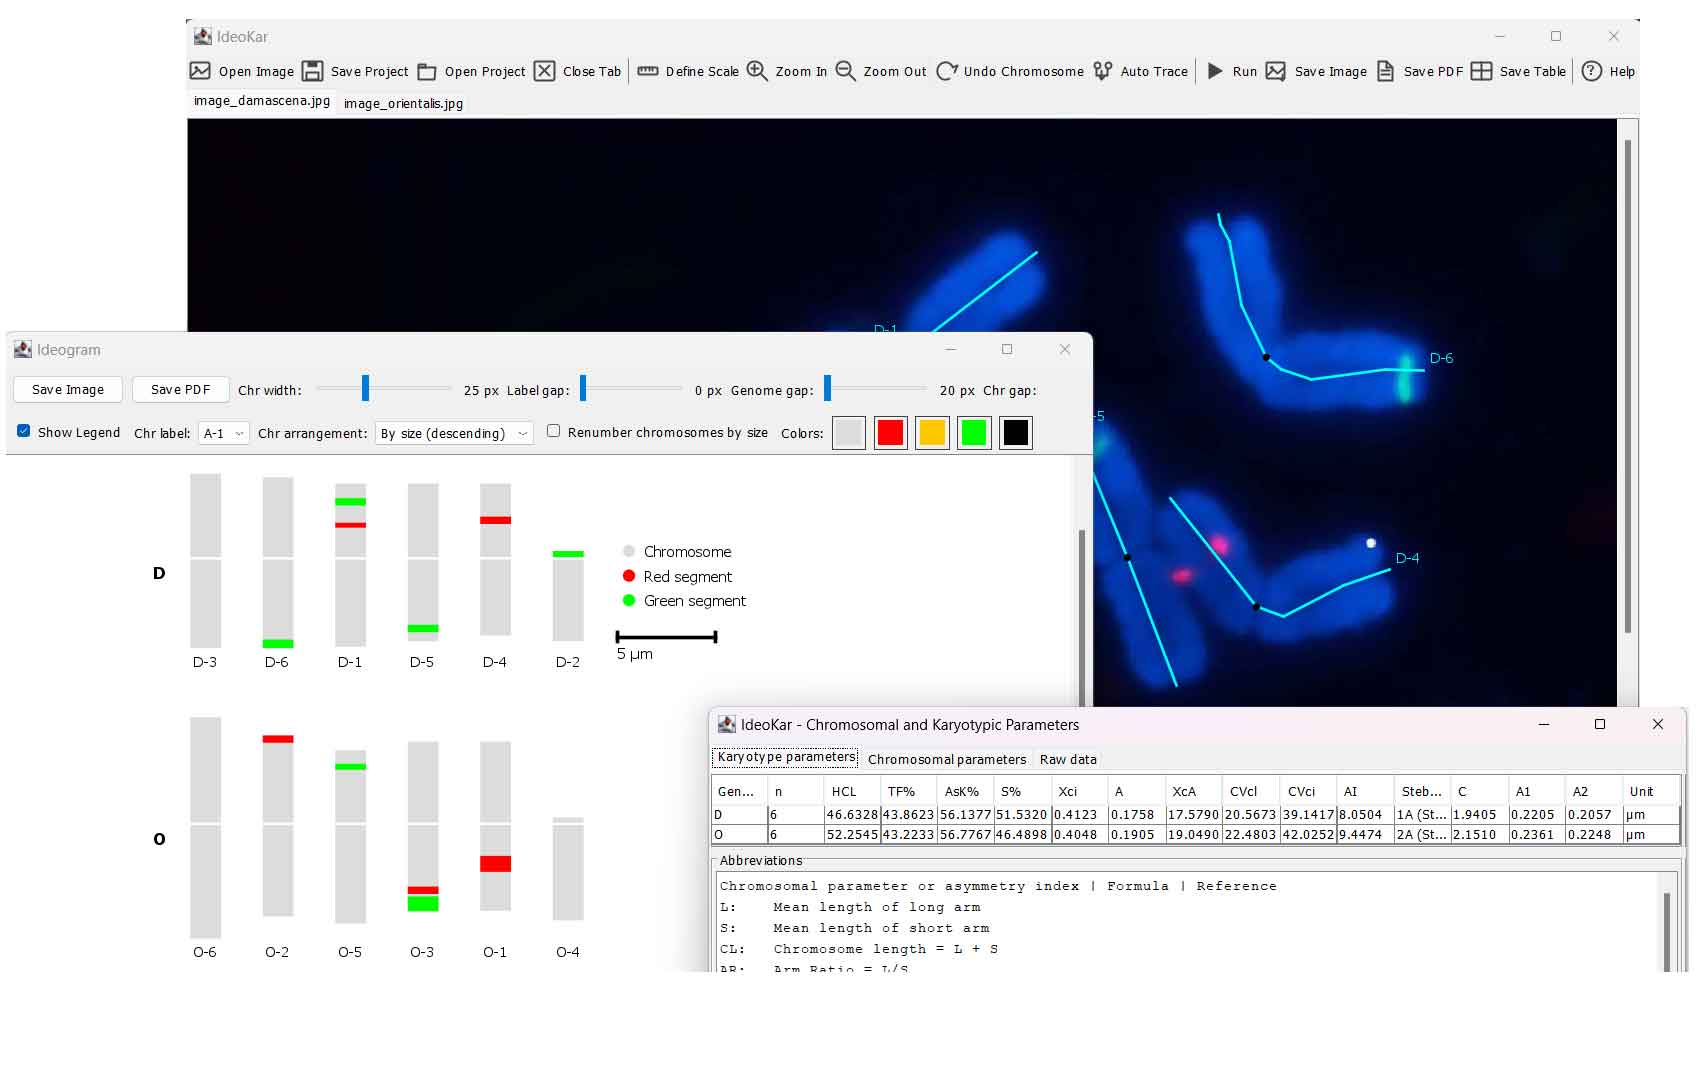
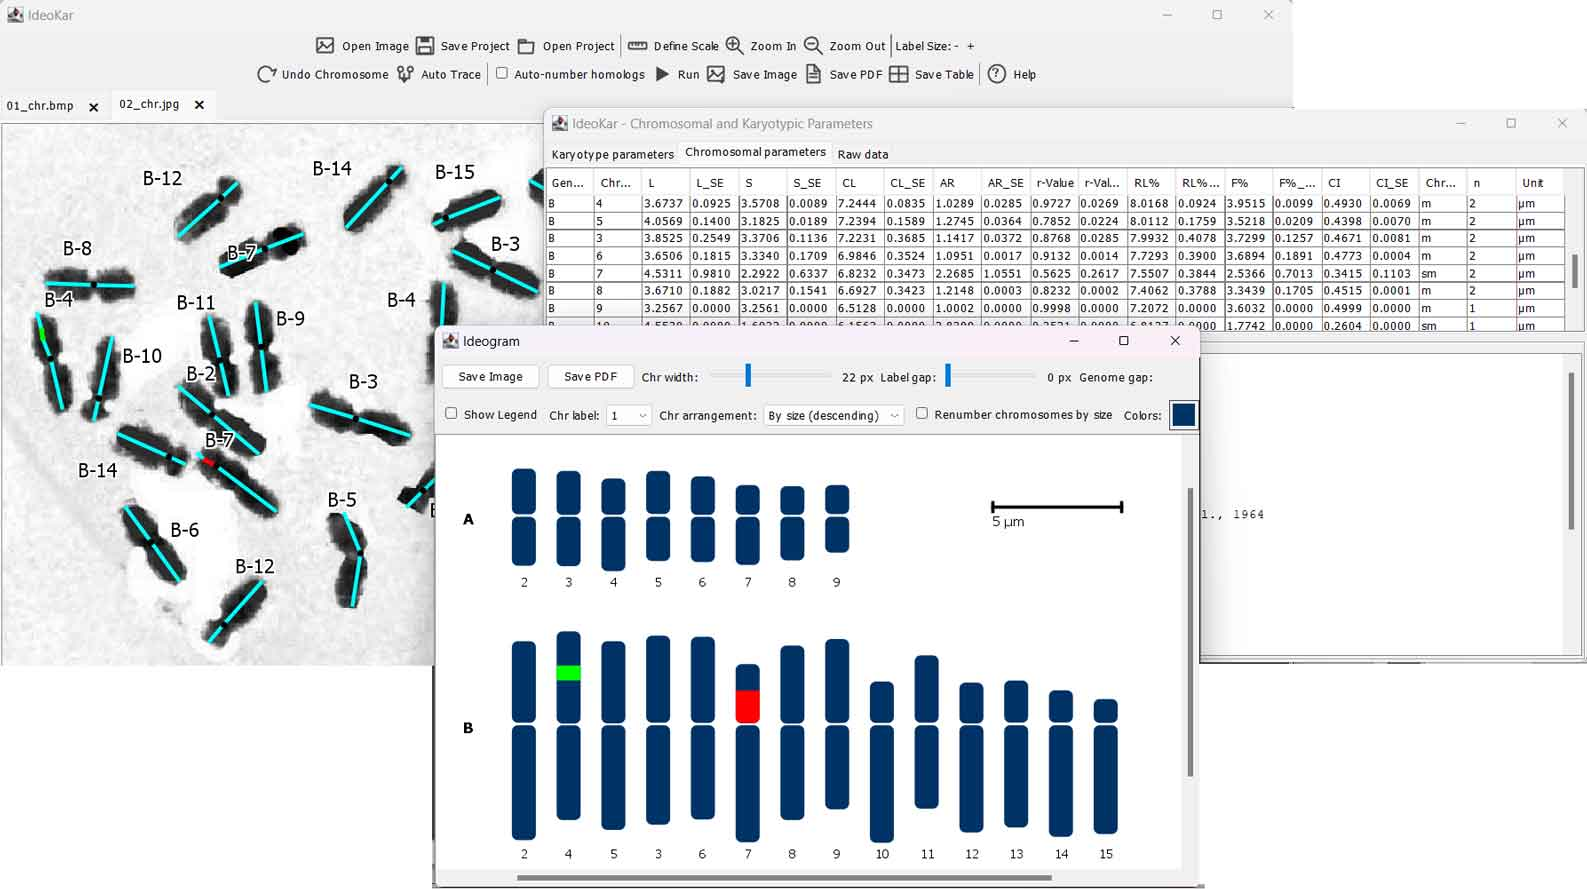
IdeoKar2

diff --git a/README.md b/README.md
@@ -52,7 +52,7 @@ java -jar IdeoKar2.jar
 <figure>
     <img src="ideogram1.jpg" style="width: 50%;" alt="Figure 2" />
   <figcaption aria-hidden="true">
-    Figure 2: A sample ideogram output of IdeoKar2. The legend can be removed or edited simply by double click. 
+    Figure 2: A sample ideogram output of IdeoKar2. The legend and labels can be removed or edited simply by double click. 
   </figcaption>
 </figure>
 
